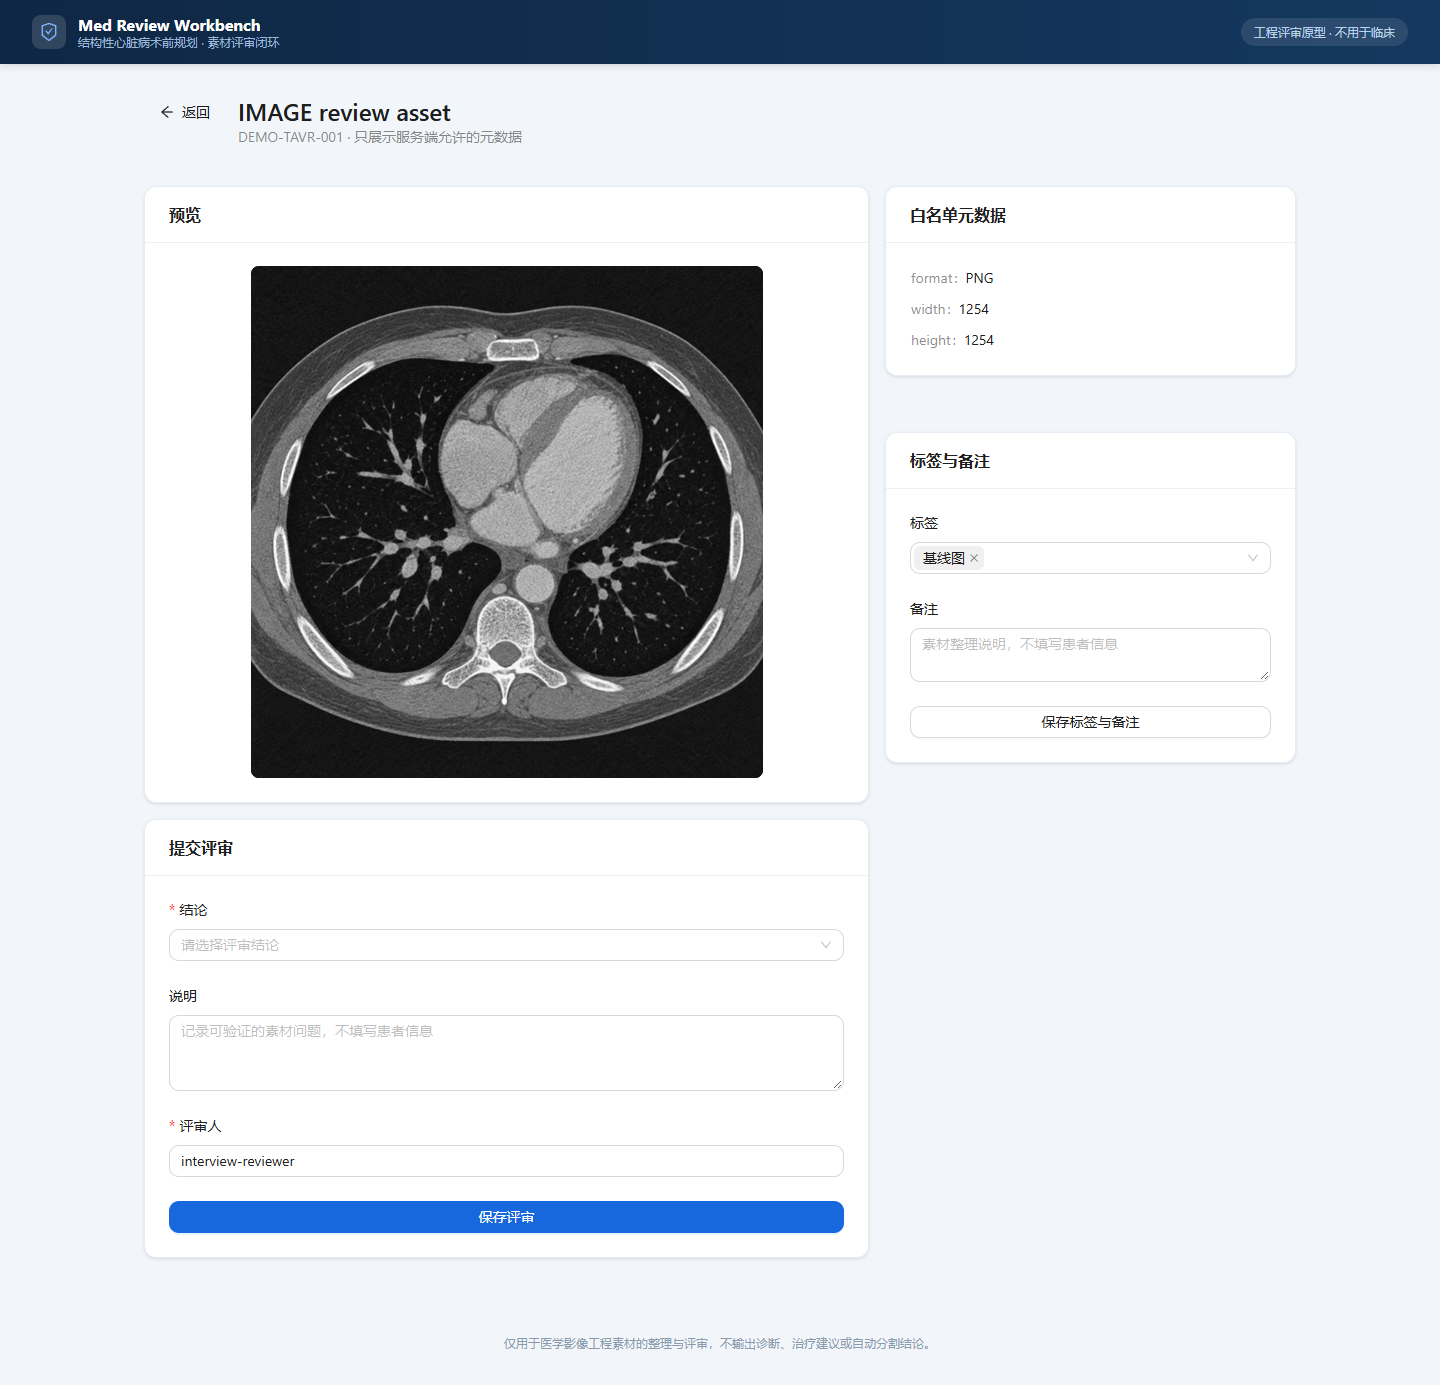
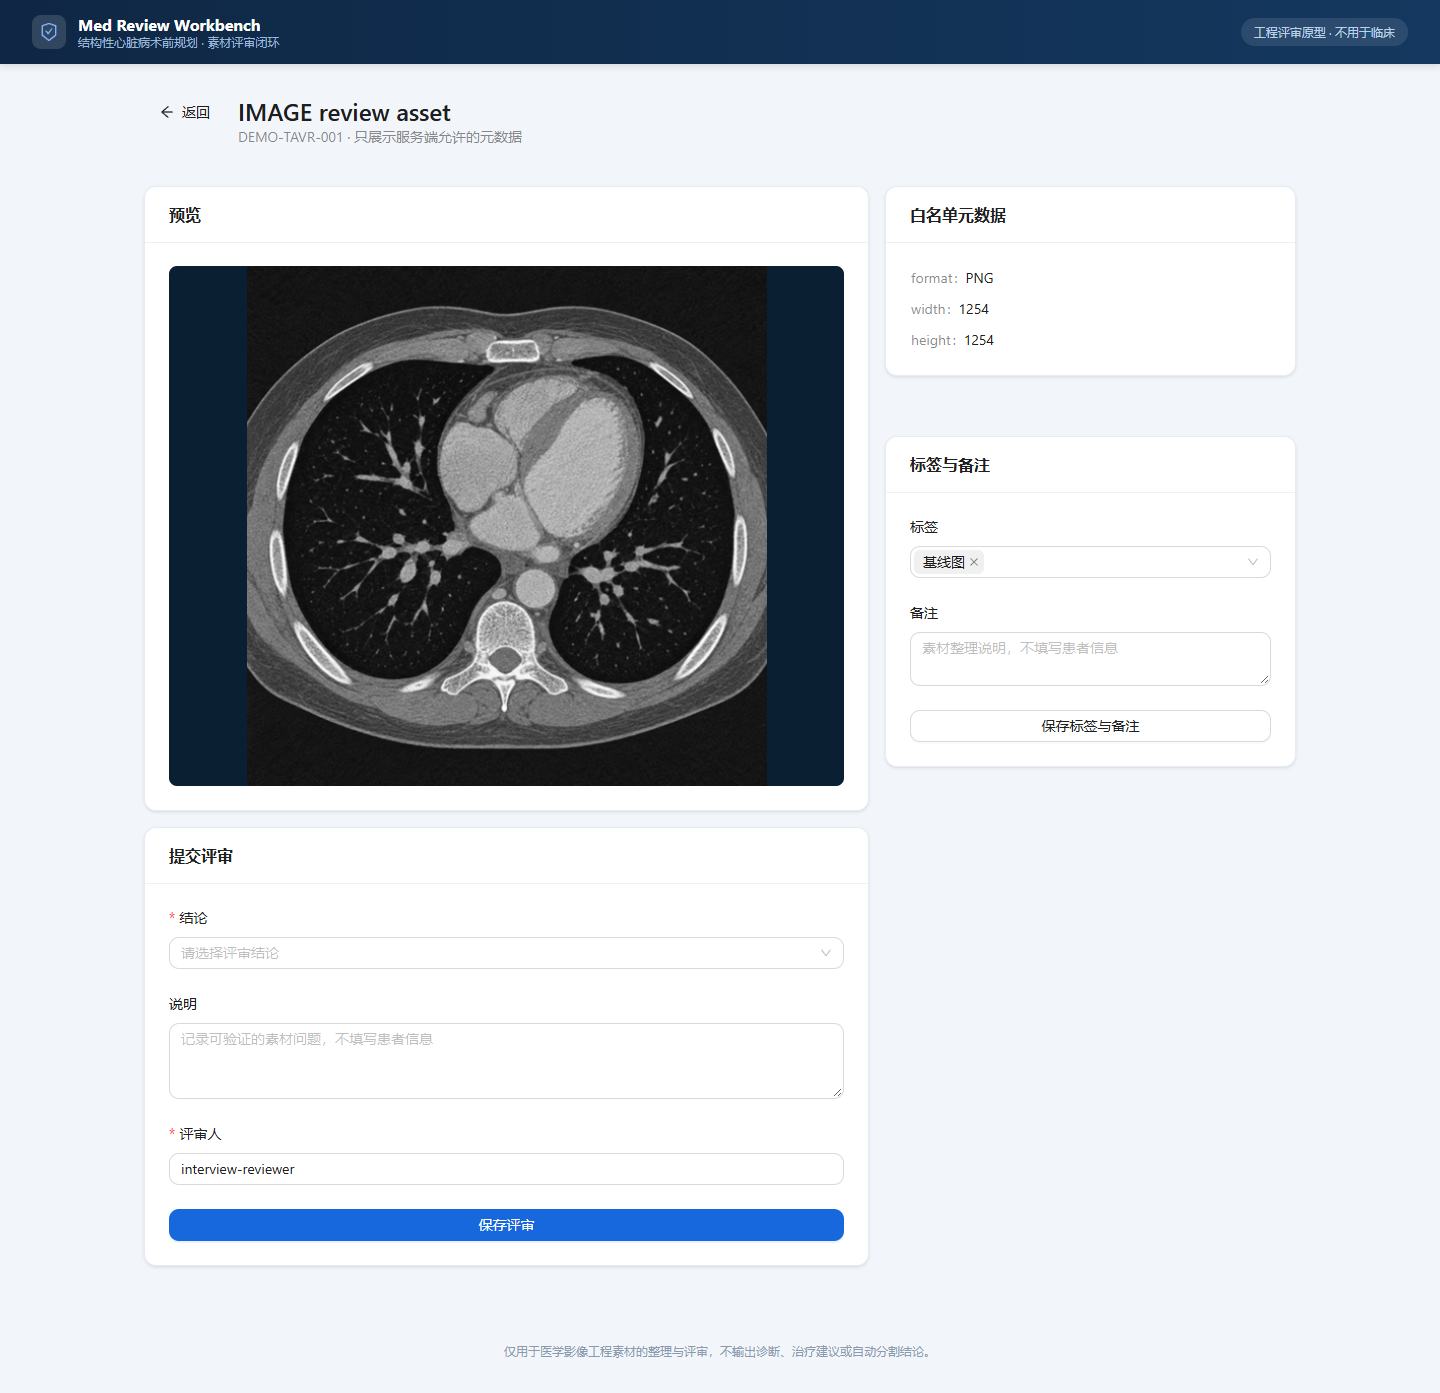
fix(web): scale small previews to fill the viewer and capture DICOM screenshot
- asset preview now upscales (width:100%, object-fit:contain) so a 128x128 DICOM
  is no longer rendered at native size inside a large card
- capture-screenshots also records the DICOM whitelist preview page
- README screenshot table updated

diff --git a/apps/web/src/styles.css b/apps/web/src/styles.css
@@ -344,6 +344,13 @@ textarea {
   min-height: 480px;
 }
 
+.preview-card .ant-card-body {
+  display: flex;
+  align-items: center;
+  justify-content: center;
+  min-height: 520px;
+}
+
 .metadata-card,
 .review-card {
   border-radius: 12px;
@@ -358,12 +365,12 @@ textarea {
 
 .asset-preview {
   display: block;
-  max-width: 100%;
-  max-height: 560px;
-  margin: 0 auto;
+  width: 100%;
+  max-height: 520px;
   object-fit: contain;
   border-radius: 8px;
   background: #0b1f33;
+  image-rendering: auto;
 }
 
 .warning-item {

diff --git a/README.md b/README.md
@@ -45,9 +45,9 @@ P8 测试与证据已通过，P9 文档一致性已收口，当前进行 P10 交
 |---|---|
 | ![项目工作台](docs/screenshots/01-projects.png) | ![病例列表](docs/screenshots/02-cases.png) |
 
-| 病例评审看板 | 图片预览 | 3D 模型与结构标记 |
-|---|---|---|
-| ![评审看板](docs/screenshots/03-review-board.png) | ![图片预览](docs/screenshots/04-image-preview.png) | ![3D 查看器](docs/screenshots/05-stl-viewer.png) |
+| 病例评审看板 | 图片预览 | DICOM 白名单预览 | 3D 模型与结构标记 |
+|---|---|---|---|
+| ![评审看板](docs/screenshots/03-review-board.png) | ![图片预览](docs/screenshots/04-image-preview.png) | ![DICOM 预览](docs/screenshots/05-dicom-preview.png) | ![3D 查看器](docs/screenshots/06-stl-viewer.png) |
 
 截图由 `apps/web/scripts/capture-screenshots.mjs` 从运行中的演示栈自动生成：
 
